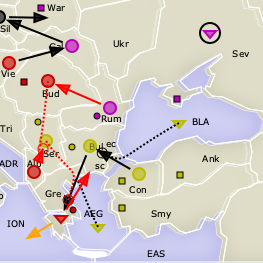
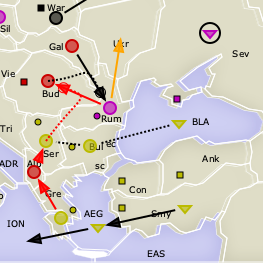
1904 Spring

diff --git a/index.html b/index.html
@@ -11,74 +11,120 @@
     <div class="headerobjectswrapper">
 			<div class="weatherforcastbox"><span style="font-style: italic;">Standing:
 				
-				England 6;
+				England 8;
+
+				
+				France 7;
+
+				
+				Turkey 6;
 
 				
 				Russia 6;
 
 				
-				Turkey 5;
+				Austria 3;
 
 				
-				France 5;
+				Italy 3;
 
 				
-				Austria 4;
-
-				
-				Italy 4;
-
-				
-				Germany 4;
+				Germany 1;
 
 				
 				</span></div>
         <header>Diplomacy Today</header>
     </div>
 
-		<div class="subhead">York, MA - <span id="season">Fall 1903</span> - Seven Pages</div>
+		<div class="subhead">York, MA - <span id="season">Spring 1904</span> - Seven Pages</div>
 </div>
 <div class="content">
     <div class="collumns">
 			
         <div class="collumn">
-					<div class="head"><span class="headline hl3">The Ottoman Onslaught: Turkey Triumphs in Tense Territorial Tussle</span><p><span class="headline hl4">Austria Retreats to Ionian Sea, Russia's Advance on Budapest Thwarted</span></p></div>
-					The Ottoman Empire has successfully seized control of Greece from Austria, marking a significant shift in the balance of power in the region. Despite Austria's valiant attempts to support Serbia from Albania, their efforts were disrupted, leading to a failed move. Meanwhile, Russia's ambitious attempt to capture Budapest from Romania was thwarted, leaving the status quo intact. In a strategic masterstroke, Turkey also managed to secure Bulgaria, further strengthening their position. The Austrian forces, now in retreat, have regrouped in the Ionian Sea, setting the stage for a potential counter-offensive. The geopolitical landscape of Europe is in flux, with the actions of these nations shaping the future of the continent.
+					<div class="head"><span class="headline hl3">Austria Stands Strong: Failed Turkish Invasion Raises Tensions</span><p><span class="headline hl4">Bulgaria, the Great Supporter, Emerges as a Strong Ally for Turkey</span></p></div>
+
+				<figure class="figure">
+					
+					<img class="media" src=assets/battle0.png alt="">
+									<!-- <figcaption class="figcaption">Hermine hoping for courage.</figcaption> -->
+							</figure>
+
+					
+					The powerful Austrian forces sustained their defense against the Turkish invasion. Despite the collective forces of Turkey making numerous attempts to clinch Austria's territory, the brave Austrians held their ground. This battle saw Turkey’s stronghold of Serbia and Greece attempting to invade Austria-held Albania, but much to their disappointment, their attack strength fell short. Bulgaria appeared as the wildcard, not only successfully supporting Turkey, but also maintaining its power in Black sea region, unchallenged. Russia saw a failed invasion attempt into Austria’s Budapest from their home ground in Rumania, and later had to retreat to their territory in Ukraine. Austria on the other hand captured Rumania from Russia, making it a significant victory for Austria. These recent findings have sparked multiple discussions regarding shifts in power dynamics and the sun setting in the east for Turkey’s expansion plans.
 				</div>
 			
         <div class="collumn">
-					<div class="head"><span class="headline hl3">The Danish Gambit: England Seizes Denmark Amidst European Power Struggle</span><p><span class="headline hl4">Germany Forced to Retreat, Russia's Support Thwarted in Dramatic Naval Clash</span></p></div>
-					England has successfully seized control of Denmark from Germany, marking a significant shift in the balance of power in Northern Europe. The English fleet, led by Admiral Sir Charles Beresford, launched an unchallenged attack from the North Sea, effectively disrupting German and Russian support efforts. Despite a valiant defense, German forces were compelled to retreat to Heligoland, while Russia's attempt to move from the Baltic Sea was thwarted. This unexpected turn of events has sent shockwaves through the diplomatic circles of Europe, with many speculating on England's next move in this high-stakes game of territories.
+					<div class="head"><span class="headline hl3">Italian and French Armies Clash over Strategic Territories, Stalemate Ensues</span><p><span class="headline hl4">Simultaneous Naval and Ground Offensives Prove Futile as Neither Country Gains Ground</span></p></div>
+
+				<figure class="figure">
+					
+					<img class="media" src=assets/battle1.png alt="">
+									<!-- <figcaption class="figcaption">Hermine hoping for courage.</figcaption> -->
+							</figure>
+
+					
+					Both France and Italy faced setbacks yesterday during a series of interconnected military engagements. The French navy's planned movement from Brest to the Mid-Atlantic Ocean was deflected by Italian forces. Simultaneously, Italy's attempt to invade Spain from the Ligurian Sea also ended in a stalemate, as French forces successfully held the line. However, both nations have strengthened their resolve as France managed to reinforce its position in Burgundy from Marseille, while strengthening its naval hold near the North coast from Spain. Meanwhile, the Italian navy's pursuits to seize the Mid-Atlantic Ocean from the Western Mediterranean have also proved fruitless. The ceasefire in the waters off Spain underscored the deadlock. The continued failure of the French army's attempt to move from Spain to the Western Mediterranean signaled the intensity of the European standoff. The escalating tensions have brought geopolitical experts, such as esteemed professor Heinrich Von Graf, to question the long-term ramifications for the overall European stability and peace, while the common folk foresee a grave and dark future as the clamor of war echoes throughout the continent.
 				</div>
 			
         <div class="collumn">
-					<div class="head"><span class="headline hl3">The Fall of Kiel: A Shocking Blow to German Pride</span><p><span class="headline hl4">Anglo-French Alliance Seizes Key German Territory in Unprecedented Move</span></p></div>
-					The forces of England and France have successfully seized the German stronghold of Kiel. The English, led by the cunning General Sir Arthur Wellesley, launched a daring attack from the Ruhr, while the French, under the command of the charismatic General Pierre de Villiers, provided crucial support from Munich. Despite a valiant defense, the German forces, caught off guard by the unexpected alliance, were unable to hold their ground. The German commander, General Friedrich von Paulus, was forced to disband his troops and retreat, marking a significant setback for Germany. This unexpected turn of events has sent shockwaves through the European political landscape, leaving many to wonder what the future holds for the balance of power in the region.
+					<div class="head"><span class="headline hl3">The Lion and the Rooster Foiled by the Bear: Europe’s Geopolitical Chess Game Heats Up</span><p><span class="headline hl4">Russia Remains Victorious in Ber; England and France left Stagnant in their Expansion Efforts.</span></p></div>
+
+				<figure class="figure">
+					
+					<img class="media" src=assets/battle2.png alt="">
+									<!-- <figcaption class="figcaption">Hermine hoping for courage.</figcaption> -->
+							</figure>
+
+					
+					Much hype surrounded the English and French expeditions to German territories, Ber and Kie. Yet, with much disappointment, the much-anticipated control of Ber by England failed. Not only that, but the anticipated acquisition of Kie from Holland ended in much the same way. In a prepared statement, England’s Prime Minister, Arthur Bingham, expressed disappointment but remained hopeful. “These are but small setbacks, our great nation will strive forward and continue to extend our sphere of influence," he voiced with enthusiasm. Meanwhile, the French Ambassador to Munich, Francois Valois, who had set his eyes on Ber, found his efforts equally fruitless, thus leaving Russia to maintain control of their territory. Russia’s President, Ivan Petrovich, was seen celebrating at the Russian Embassy, declaring “No power, no matter how mighty they presume to be, can force the Bear into submission. Today’s victory proved that.” Who knows what the next turn in the game is going to bring. Whatever it is, Europe is kept in suspense, waiting on the edge of their seats.
 				</div>
 			
         <div class="collumn">
-					<div class="head"><span class="headline hl3">The Great European Shuffle: A Triumvirate of Power Plays</span><p><span class="headline hl4">Austria, Russia, and Germany Engage in a Tense Territorial Tango</span></p></div>
-					The powers of Austria, Russia, and Germany have each successfully seized territories from one another in a dizzying display of military might and strategic cunning. The Russian forces, led by General Ivan Petrovich, have taken Silesia from Germany, while the Germans, under the command of Field Marshal Friedrich von Hohenberg, have retaliated by capturing Warsaw from Russia. Meanwhile, Austria, under the leadership of Archduke Franz Ferdinand, has seized Galicia from Russia. This intricate dance of power has left the European map in a state of flux, with the balance of power hanging precariously in the balance.
+					<div class="head"><span class="headline hl3">The Russian Bear Holds Ground Against English Invasion!</span><p><span class="headline hl4">A Bold Stand in Sweden Thwarts England's Attempt to Expand Their Territory</span></p></div>
+
+				<figure class="figure">
+					
+					<img class="media" src=assets/battle3.png alt="">
+									<!-- <figcaption class="figcaption">Hermine hoping for courage.</figcaption> -->
+							</figure>
+
+					
+					Yesterday, a fierce diplomatic battle took place as England sought to extend their dominion to Russia-owned Sweden. England, deploying their fleet from Denmark for support, attempted to march to Sweden from the Skagerrak Sea. However, their plan backfired as their army was unable to outmuscle the Russian forces stationed there. In an exciting turn of events, the Russian soldiers, led by General Ivan Petrov, rallied a robust defense, underpinning their strength and resolve. England's attack was thwarted as the Russians victoriously held their ground against the English assault, illustrating that the Motherland will not be so easily taken. This contentious match has underscored the tense relations between England and Russia, an onset of an enthralling geopolitical power play.
 				</div>
 			
         <div class="collumn">
-					<div class="head"><span class="headline hl3">The Battle of Mar: A French Victory Against Italian Aggression</span><p><span class="headline hl4">Unyielding French Forces Successfully Defend Mar, Thwarting Italian Advance</span></p></div>
-					The French forces have successfully defended the strategic territory of Mar against an aggressive Italian incursion. The Italian forces, originating from Pie and LYO, launched an unchallenged support move towards Mar, only to be met with a stronger French defense. Despite the Italian's unchallenged advance, their attack strength was not greater than the French defense, resulting in a failed move. This victory is a testament to the strategic prowess of General Pierre Leclerc, who led the French forces in this critical battle. The French government has praised Leclerc's leadership, stating that his tactical acumen was instrumental in safeguarding French sovereignty. Meanwhile, the Italian government is facing criticism for its failed military strategy, with many questioning the leadership of General Luigi Rossi. As the dust settles on the battlefield, the geopolitical landscape of Europe continues to shift, with France standing strong in the face of adversity.
+					<div class="head"><span class="headline hl3">A New Ice Age: England Overtakes Russian Territories in Stunning Seaborne Invasion</span><p><span class="headline hl4">Brisk British Manoeuvres Claim Nwy, Stp - Threatening Russian Stronghold</span></p></div>
+
+				<figure class="figure">
+					
+					<img class="media" src=assets/battle4.png alt="">
+									<!-- <figcaption class="figcaption">Hermine hoping for courage.</figcaption> -->
+							</figure>
+
+					
+					London- In an unprecedented move, English forces, led by General Sir Alistair MacGuffin, have successfully penetrated deeply into Russian territories, taking control of Nwy before mounting an audacious assault on Stp. The invasion, initiated from Edi, emerged victorious due to England's superior attack strength and strategic convoy manoeuvres via NTH. These victories not only threaten Russia's geopolitical stronghold but also herald a trying era for the Tsar's dominion as the Queen's forces show no sign of slowing their expansion.
 				</div>
 			
         <div class="collumn">
-					<div class="head"><span class="headline hl3">The Bear Roars: Russia Captures Berlin!</span><p><span class="headline hl4">A Shocking Display of Power as Russian Forces Overwhelm German Defenses</span></p></div>
-					Russian forces, led by the audacious General Ivan Petrovich, have successfully seized control of Berlin from Germany. The attack, originating from Prussia, was a masterstroke of military strategy, overwhelming the German defenses with superior strength. The fall of Berlin marks a significant shift in the balance of power in Europe, leaving the continent in a state of shock and uncertainty. The German Chancellor, Friedrich von Hohenberg, is expected to make a statement later today.
-				</div>
-			
-        <div class="collumn">
-					<div class="head"><span class="headline hl3">French Forces Maintain Control Over Tunis Amidst Italian Tensions</span><p><span class="headline hl4">Unchallenged French Troops Hold Their Ground in Tunis, Sparking Diplomatic Unease</span></p></div>
-					French forces stationed in Tunis have successfully held their position, despite rising tensions with Italy. The move, which went unchallenged by Italian forces, has sparked a diplomatic standoff between the two nations. The French General, Pierre Duval, has been praised for his strategic decision to hold the territory, further solidifying France's influence in North Africa. Meanwhile, Italian officials, led by Prime Minister Giovanni Rossi, have expressed their discontent, hinting at possible retaliatory measures. The situation in Tunis remains a powder keg, with the potential to ignite a broader conflict in the region.
+					<div class="head"><span class="headline hl3">Daring German Blitzkrieg Captures Moscow!</span><p><span class="headline hl4">Tsar Nicholas II Outraged as German Forces Triumph Through Astute Warfare Strategies</span></p></div>
+
+				<figure class="figure">
+					
+					<img class="media" src=assets/battle8.png alt="">
+									<!-- <figcaption class="figcaption">Hermine hoping for courage.</figcaption> -->
+							</figure>
+
+					
+					The German army has succeeded in capturing the city of Moscow from Russia yesterday, sending shockwaves through the Kremlin. The Russian government, under Tsar Nicholas II, is now reeling from the defeat and scrambling to regain the control of their capital city. The operation, dubbed as 'Operation Nordlicht', was initiated under the leadership of General Friedrich von Schlieffen from the German war office in Warsaw, who is now being hailed as a national hero in Germany.
 				</div>
 			
         <div class="collumn">
 					<div class="head"><span class="headline hl3">In other news...</span><p><span class="headline hl4">Other movements around Europe</span></p></div>
-					In other news, Italy has made significant advancements on the Diplomacy front, successfully moving from the Tyrrhenian Sea to the Western Mediterranean, and from Tuscany to Venice - overshadowing their opponents with superior attack strength. Meanwhile, England and Russia maintained their ground in Norway and Sevastopol respectively, without any challenges to their reign in these regions.
+
+				<figure class="figure">
+					
+					In other news, recent troop movements hint at rising tensions across Europe. Turkish forces have been seen mobilizing in the Aegean Sea before advancing into the Ionian Sea, hinting at a potential naval buildup. Similarly, French regiments marched from Paris to Picardy while their fleet moved from Tunisia to the Tyrrhenian Sea, indicating a possible expansion of their maritime reach. On the other hand, it seems all is quiet on the English, Russian, and Italian fronts as troops in London, Sevastopol, and Piedmont remain stationed. As to what all these movements might portend, only time will tell.
 				</div>
 			
   <!--       <div class="collumn"> -->

diff --git a/template.html b/template.html
@@ -24,13 +24,16 @@
     <div class="collumns">
 			{% for news_piece in news_list %}
         <div class="collumn">
-					<div class="head"><span class="headline hl3">{{ news_piece.newsline.title }}</span><p><span class="headline hl4">{{ news_piece.newsline.subtitle }}</span></p></div>
+					<div class="head"><span class="headline hl3">{{ news_piece.newsline[0] }}</span><p><span class="headline hl4">{{ news_piece.newsline[1] }}</span></p></div>
 
 				<figure class="figure">
-					<img class="media" src={{news_piece.summary.}} alt="">
-									<figcaption class="figcaption">Hermine hoping for courage.</figcaption>
+					{% if "battle_map" in news_piece.summary %}
+					<img class="media" src={{news_piece.summary.battle_map}} alt="">
+									<!-- <figcaption class="figcaption">Hermine hoping for courage.</figcaption> -->
 							</figure>
-					{{ news_piece.newsline.paragraph }}
+
+					{% endif %}
+					{{ news_piece.newsline[2] }}
 				</div>
 			{% endfor %}
   <!--       <div class="collumn"> -->

diff --git a/diplomacy_news/get_backstabbr.py b/diplomacy_news/get_backstabbr.py
@@ -4,6 +4,8 @@ import re
 import requests
 from bs4 import BeautifulSoup
 
+from diplomacy_news.get_war_map import get_war_map
+
 
 def get_backstabbr():
     base_url = "https://www.backstabbr.com"
@@ -11,11 +13,13 @@ def get_backstabbr():
     res = requests.get(url)
     bs = BeautifulSoup(res.text, "lxml")
     stage = get_property("stage", res)
-    if stage in ["SATISFIED", "NEEDS_BUILDS"]:
+    if stage in ["SATISFIED", "NEEDS_BUILDS", "NEEDS_ORDERS"]:
         prev_season = bs.find("a", {"id": "history_previous_season"})["href"]
         url = base_url + prev_season
         res = requests.get(url)
         bs = BeautifulSoup(res.text, "lxml")
+        get_war_map(url)
+
         #  stage = json.loads(re.search("var stage = (.*)", res.text)[1][:-1])
     season = bs.find("a", {"id": "history_current_season"})
     if season:

diff --git a/main.py b/main.py
@@ -8,7 +8,8 @@ from jinja2 import Environment, FileSystemLoader
 from tqdm import tqdm
 
 from diplomacy_news.get_backstabbr import get_backstabbr
-from diplomacy_news.get_war_map import get_battles_coords, get_war_map
+from diplomacy_news.get_war_map import (get_battle_map, get_battles_coords,
+                                        get_war_map)
 from diplomacy_news.ping_gpt import ping_gpt
 
 countries = ["Austria", "England", "France", "Germany", "Italy", "Russia", "Turkey"]

diff --git a/diplomacy_news/get_war_map.py b/diplomacy_news/get_war_map.py
@@ -15,9 +15,9 @@ def get_war_map(url):
     svg_element = get_svg_element(url)
 
     #  Path("/tmp/lol.svg").write_text(str(svg_element))
-    background_image = Image.open("map_background.png")
+    background_image = Image.open("assets/map_background.png")
     png_data = cairosvg.svg2png(
-        bytestringstr(svg_element),
+        str(svg_element),
         parent_width=background_image.size[0],
         parent_height=background_image.size[1],
     )
